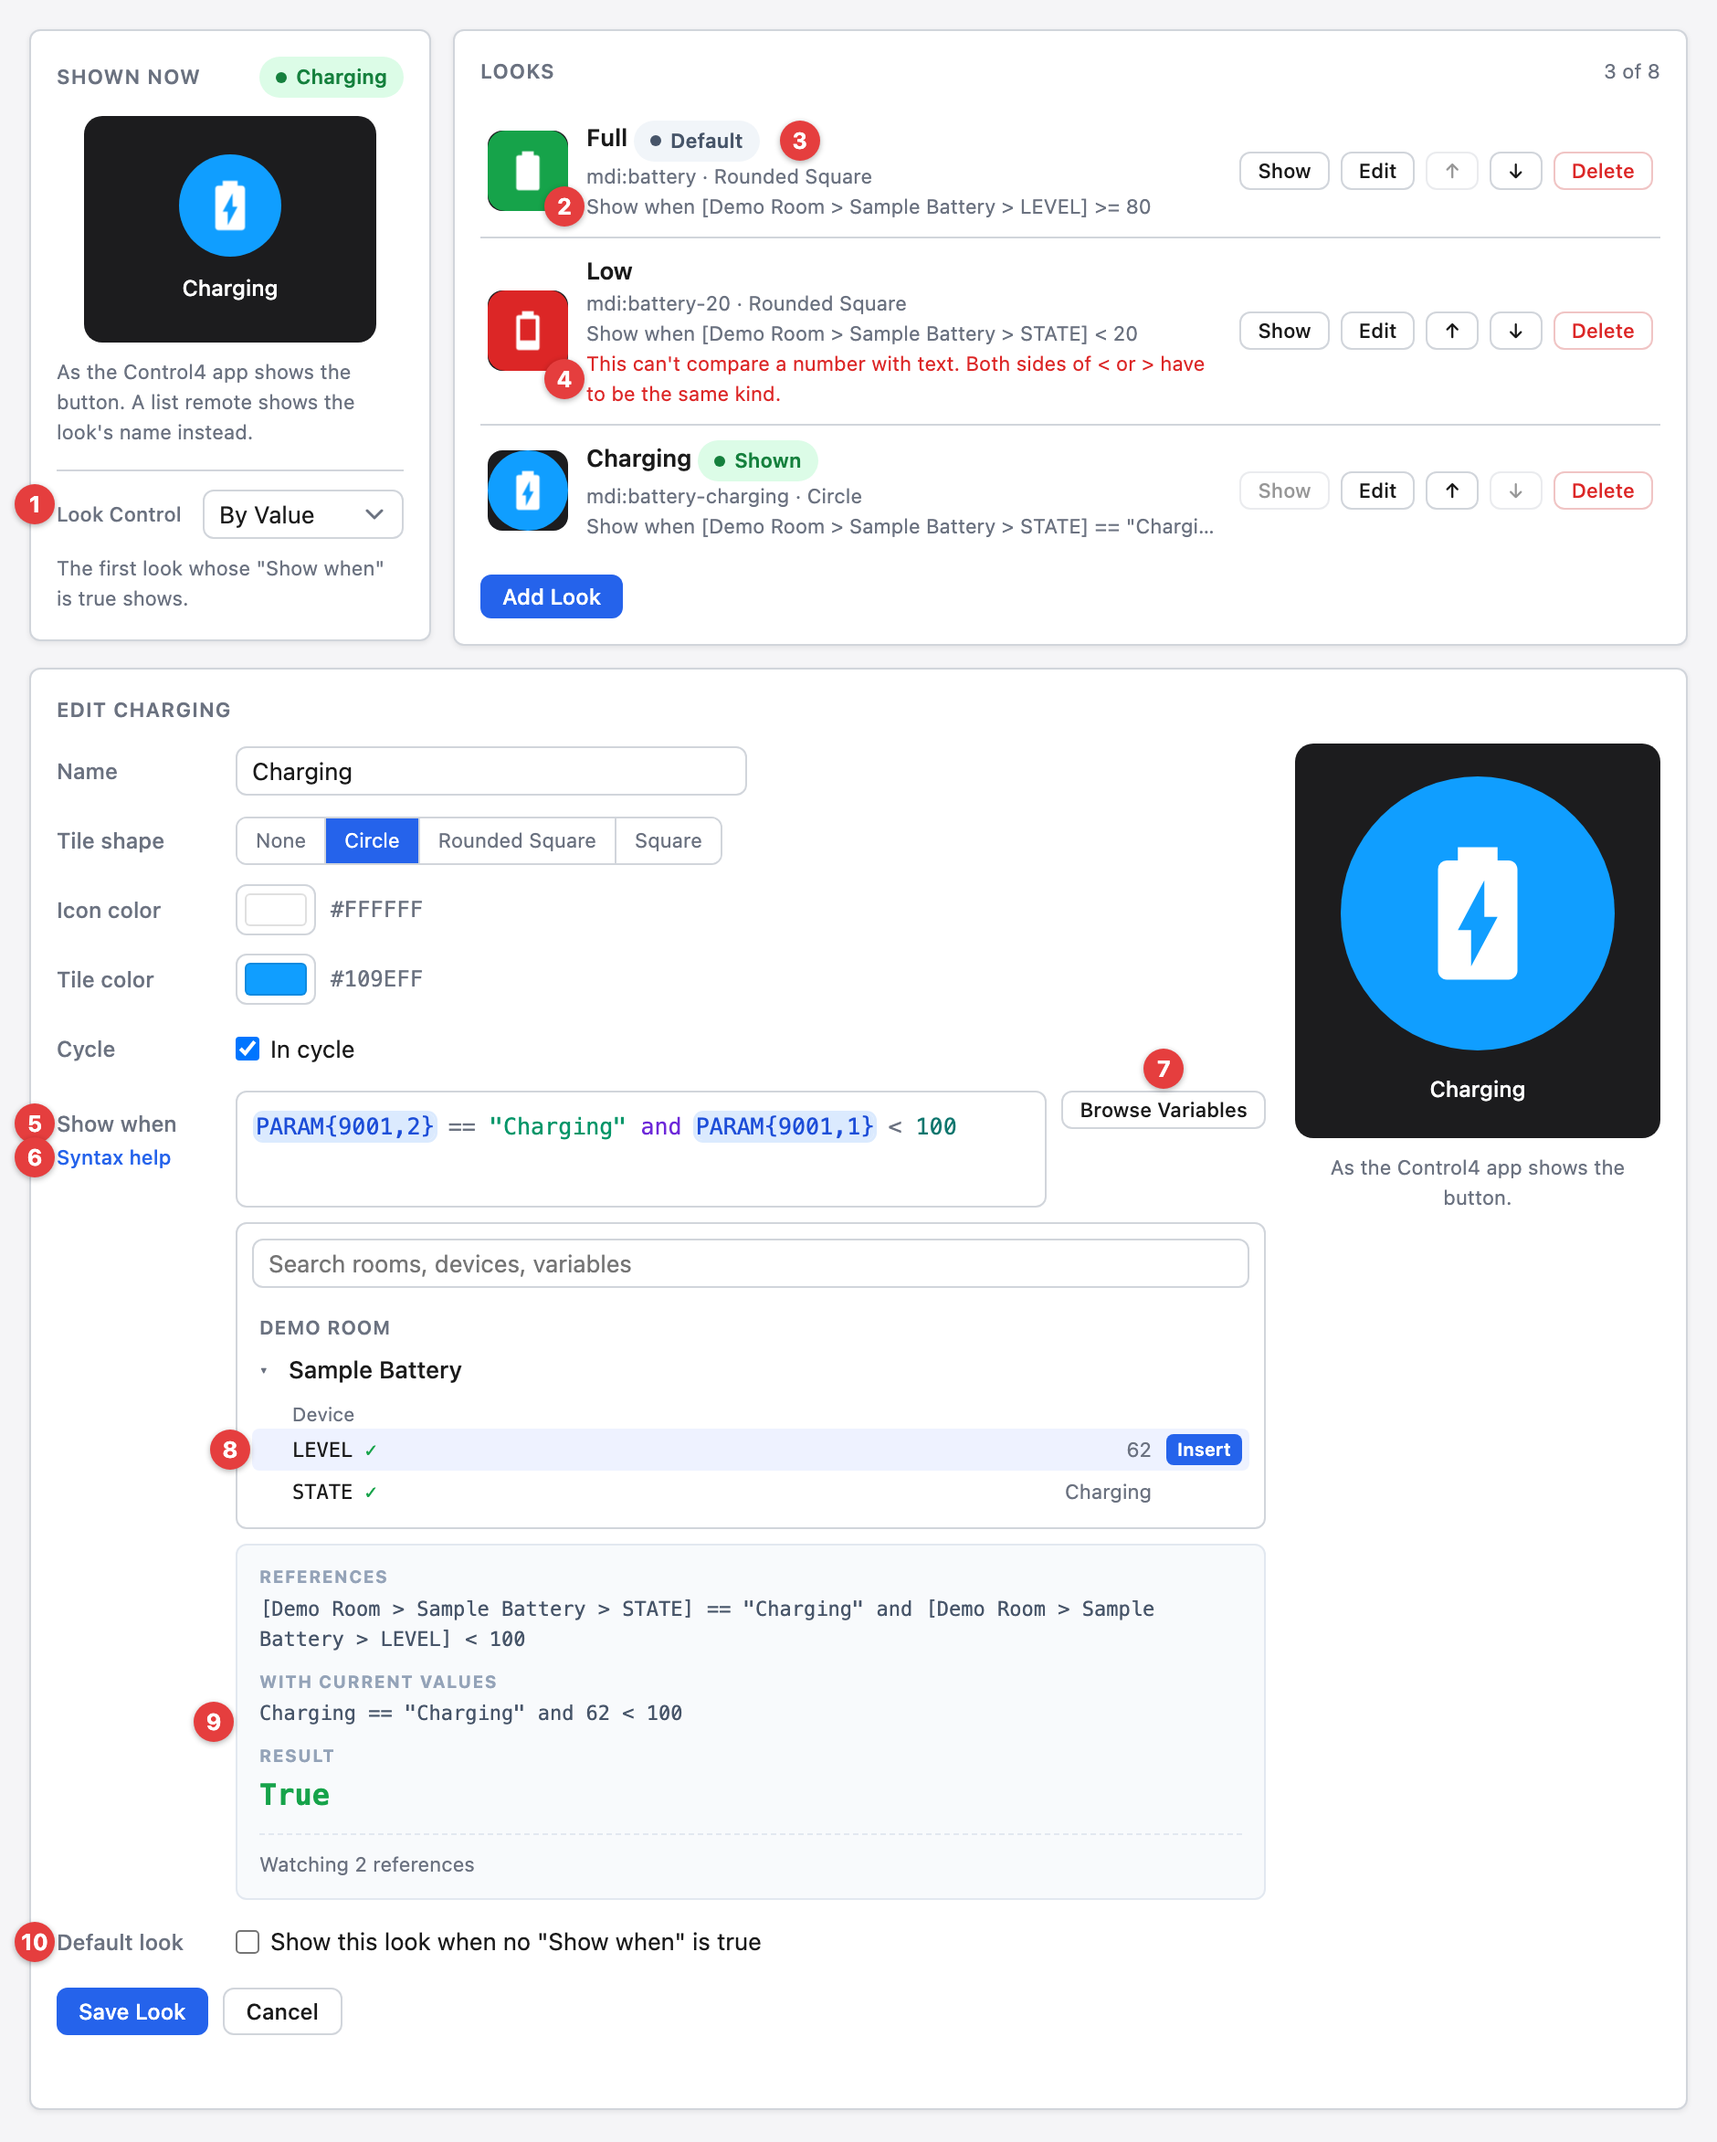
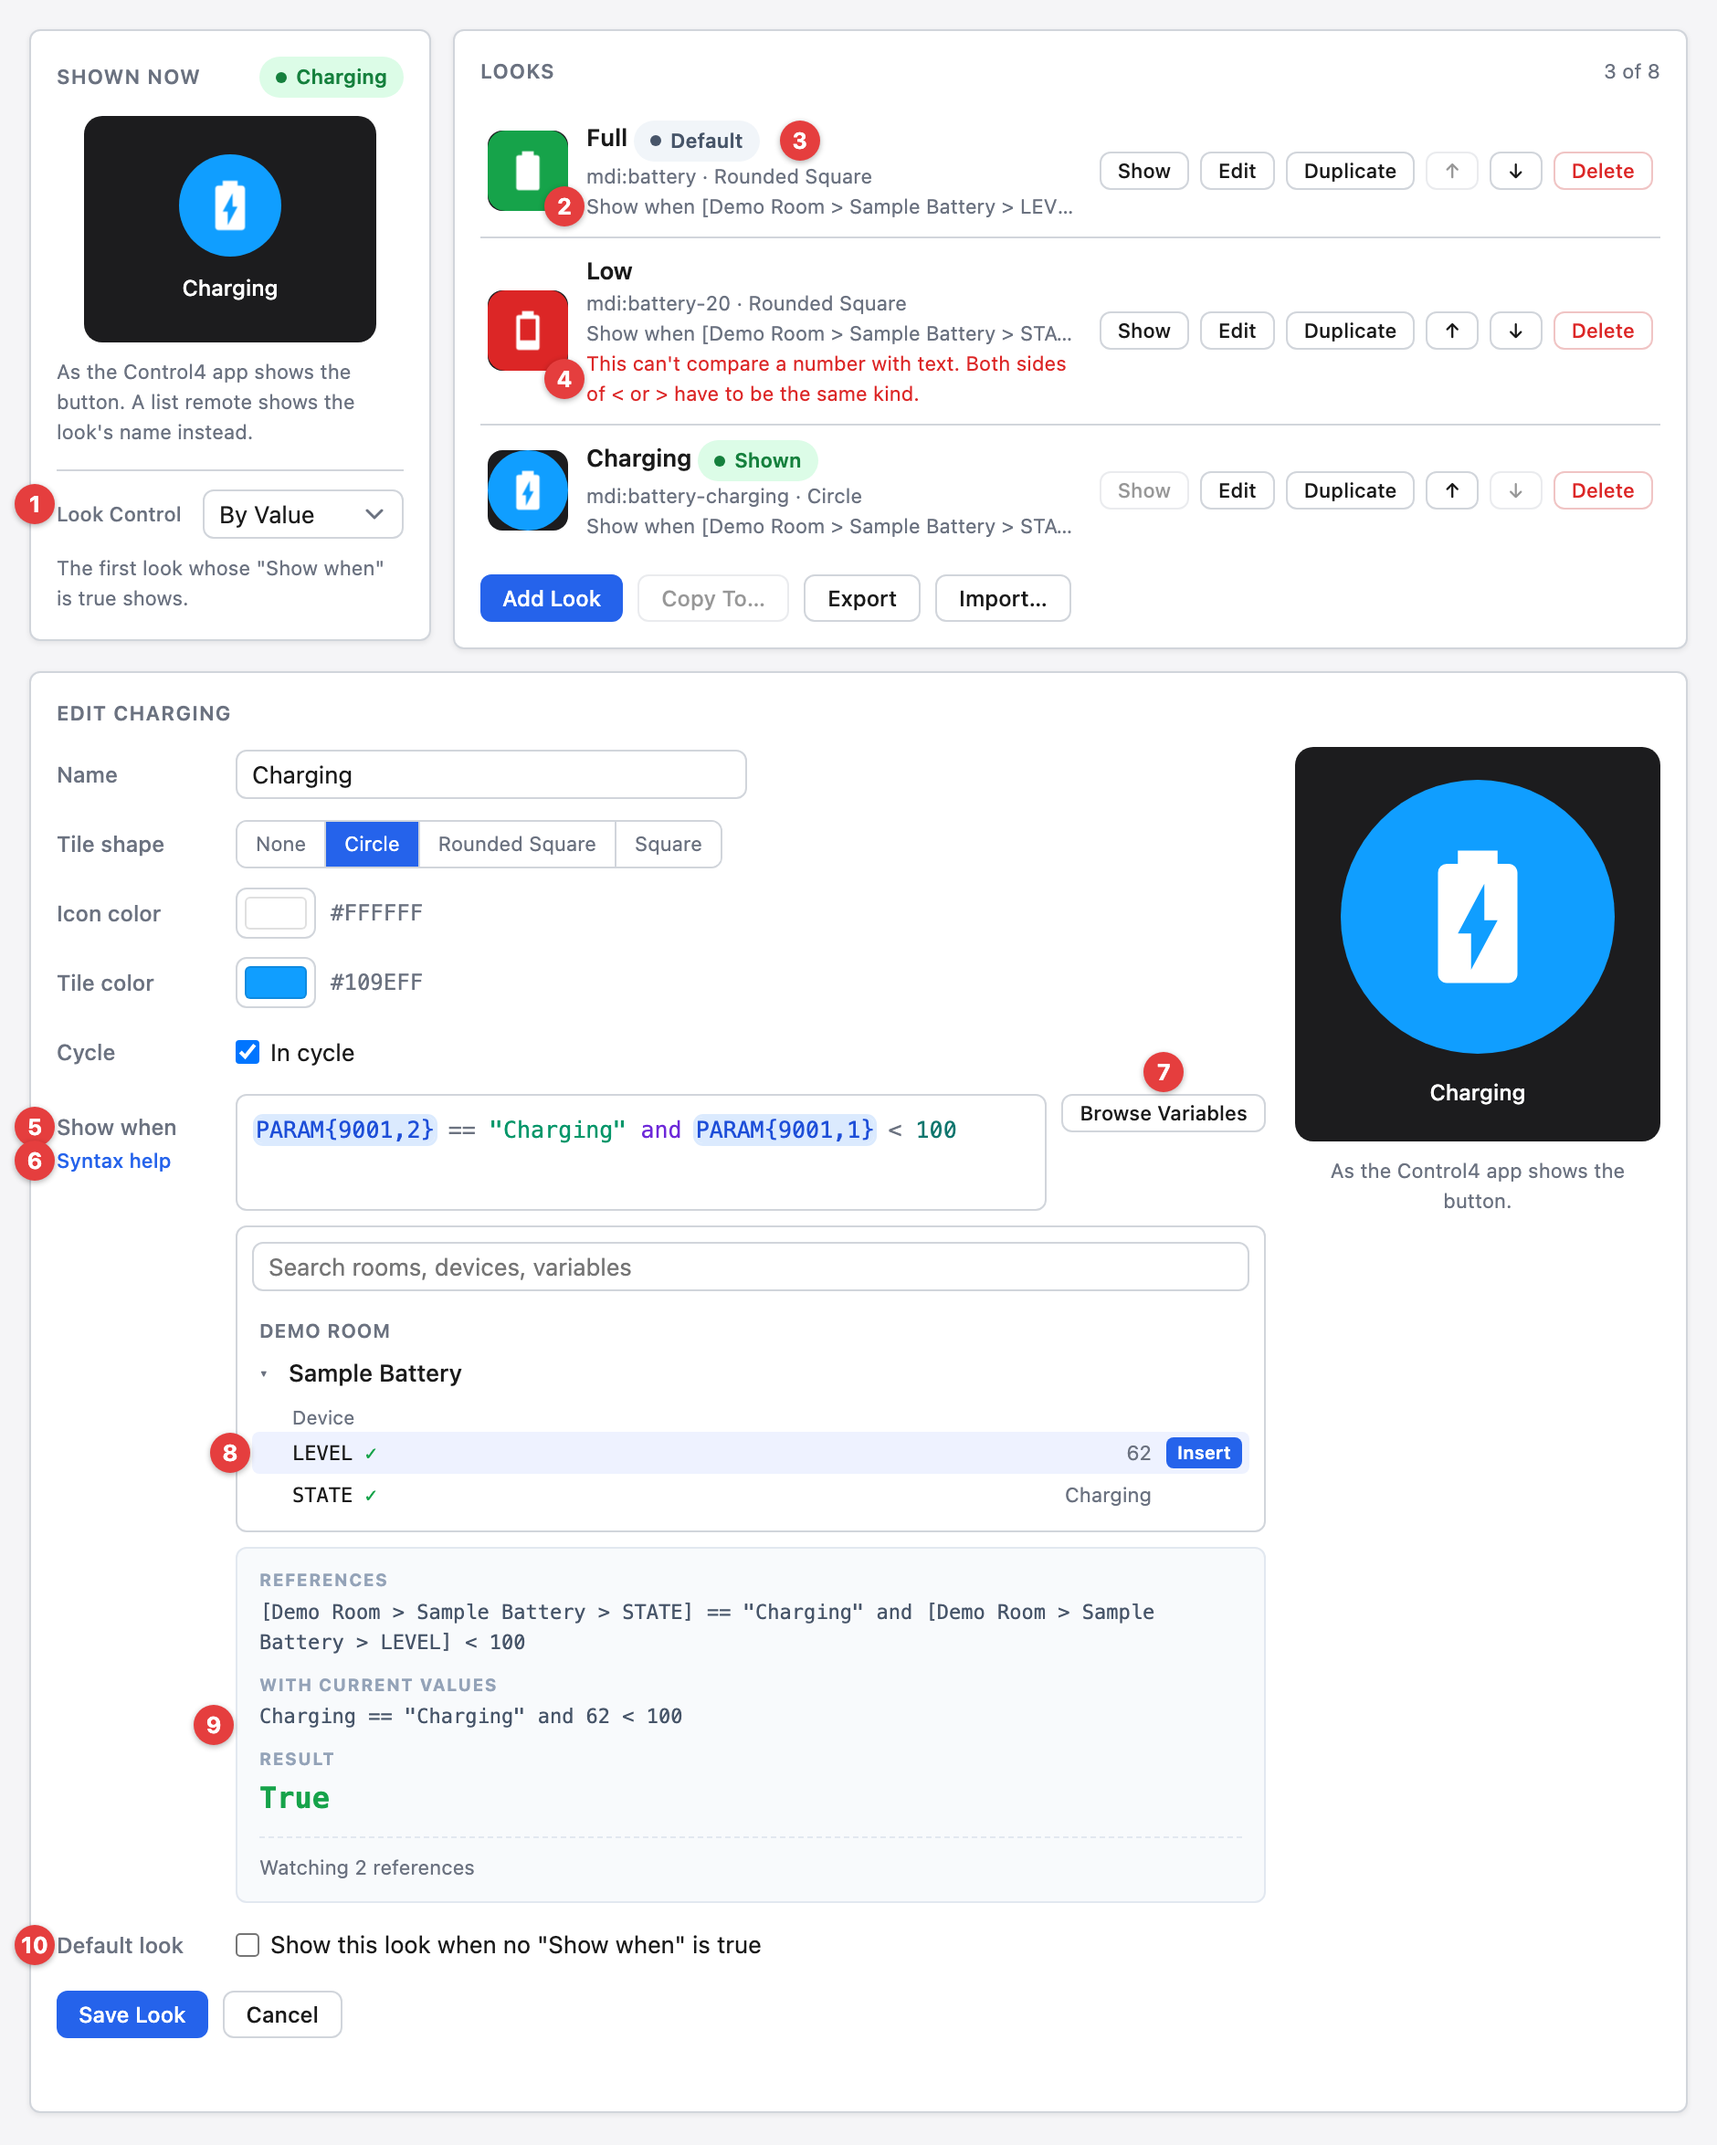
docs: regenerate the README

diff --git a/README.md b/README.md
@@ -35,6 +35,7 @@ the programming you attach to it.
     - [Icon Packs](#icon-packs)
     - [Free Icon Libraries](#free-icon-libraries)
     - [My Images](#my-images)
+    - [Copy To, Export and Import](#copy-to-export-and-import)
   - [Cycling Through Looks](#cycling-through-looks)
   - [Following a Value](#following-a-value)
     - [Show When Syntax](#show-when-syntax)
@@ -67,6 +68,8 @@ the programming you attach to it.
   fourteen free icon packs
 - Your own pictures: an uploaded file, pasted SVG, or a picture from a web
   address, kept as fetched or refreshed on a schedule
+- Looks copied to other Dynamic Buttons in the project, or exported to a file
+  and imported into a button in another project
 - Three icon packs of 100 subjects each: Classic Device and Classic Tile, which
   match the OS 3 look, and Modern, which matches the X4 look, with on, off and
   alert pictures where a subject has states
@@ -336,6 +339,37 @@ Except on a picture that refreshes, `Tile shape`, `Tile color`, `Grayscale`,
 `Save Look` sends a new picture to the controller before the look. Your pictures
 are kept with the button: one that no look uses is deleted 10 minutes after it
 was added, and all of them go when the button is deleted or reset.
+
+### Copy To, Export and Import
+
+<img alt="Button tab - Copy To" src="./images/ui-copy-looks.png" width="640"/>
+
+1. **Copy To…** - copies looks to other Dynamic Buttons in this project. It is
+   off when the button has no looks or the project has no other Dynamic Button.
+1. **Copy these looks** - the looks to copy. All of them are checked to start.
+1. **To these Dynamic Buttons** - the buttons to copy them to, by room and name.
+1. **Add to their looks / Replace their looks** - `Add` puts the looks after a
+   button's own, as many as fit in its eight. `Replace` deletes a button's looks
+   first, and the default look among the copies becomes its default.
+1. **Copy** - copies to one button after another and shows a line for each: how
+   many looks it got, how many didn't fit, and what stopped it.
+
+A copy brings everything a look has: its picture, colors, tile shape, `Cycle`,
+`Show when` and badge. Your own pictures go with the looks and are kept by the
+other button as its own, and a picture that refreshes is fetched by the other
+button from the same address. A look whose name the other button already uses
+gets the next number. A button without an active license keeps its looks and
+gets none.
+
+`Export` saves the button's looks and your own pictures in one file named after
+the button, ending in `.dynamic-button.json`.
+
+`Import…` opens such a file and lists its looks, with
+`Add to this button's looks` or `Replace this button's looks`. A picture in the
+file goes through the same checks as an uploaded file or pasted SVG, and a look
+that uses an icon this driver doesn't have is left out. `Show when` and badge
+text name devices by their id in the project the file came from, so check them
+after importing into another project.
 
 ## Cycling Through Looks
 
@@ -645,6 +679,9 @@ Template for a new release entry (copy below the heading, fill in, uncomment):
   again every minute, 5 minutes, 15 minutes or hour while its look shows, and
   shows it as the site sends it, with Refresh Web Picture and Set Web Address
   commands
+- Added Copy To, Export and Import to the Looks card: chosen looks, with their
+  own pictures, go to other Dynamic Buttons in the project, added to or
+  replacing theirs, or to a file that another button imports
 - Added Icon and Badge sections to each look: the picture's colors with its
   shading kept, the glow's color, its size and position, and a badge of up to
   five characters in the size you pick
